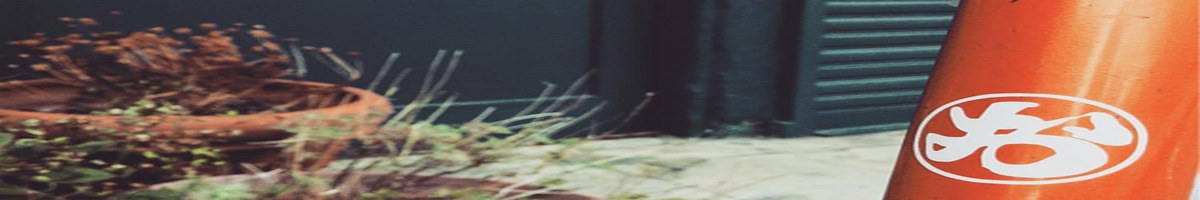
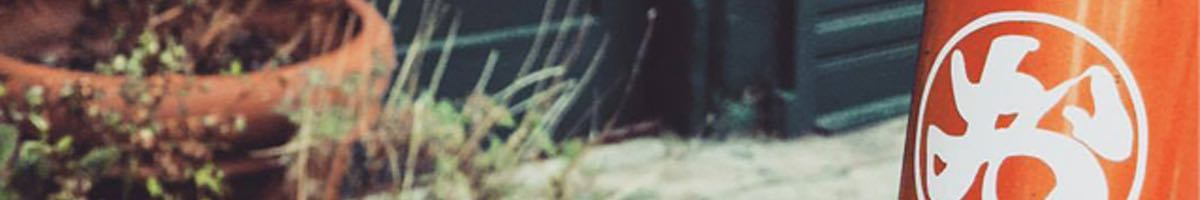
bago/modify/about-us-header

diff --git a/containers/about/index/Main.vue b/containers/about/index/Main.vue
@@ -1,6 +1,6 @@
 <template lang="pug">
 v-container#about-index-main(fluid)
-  img(src="/images/about-us/header.jpg").about-us-header
+  img(src="/images/about-us/header.jpg")
   v-layout(row class="border-blue-bottom").pb-1
     v-flex.caption(xs12)
       v-icon.mb-1(class="icon-blue more-ajusted icons events") panorama_fish_eye
@@ -38,8 +38,6 @@ v-container#about-index-main(fluid)
 
 <style lang="stylus">
 #about-index-main
-  .about-us-header
-    height 100%
   .partnerDetails
     border-bottom 1px solid #bdbdbd
     img
